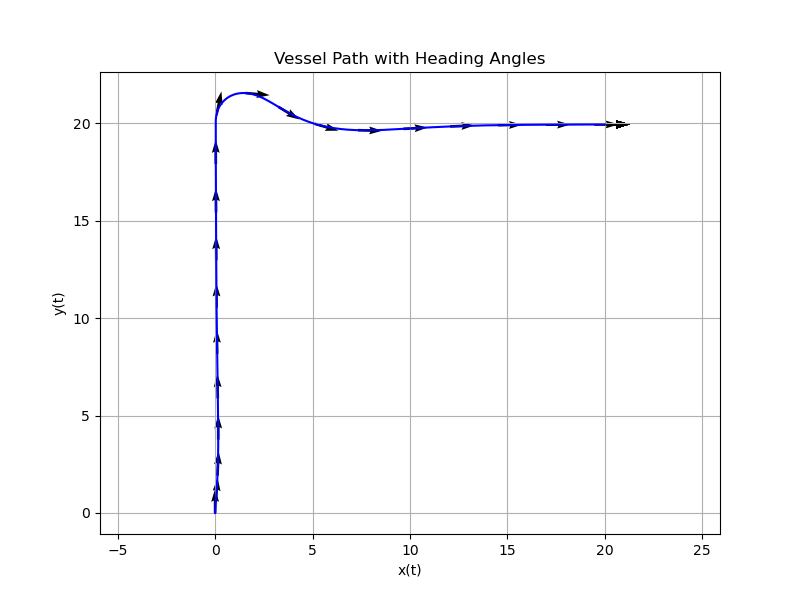
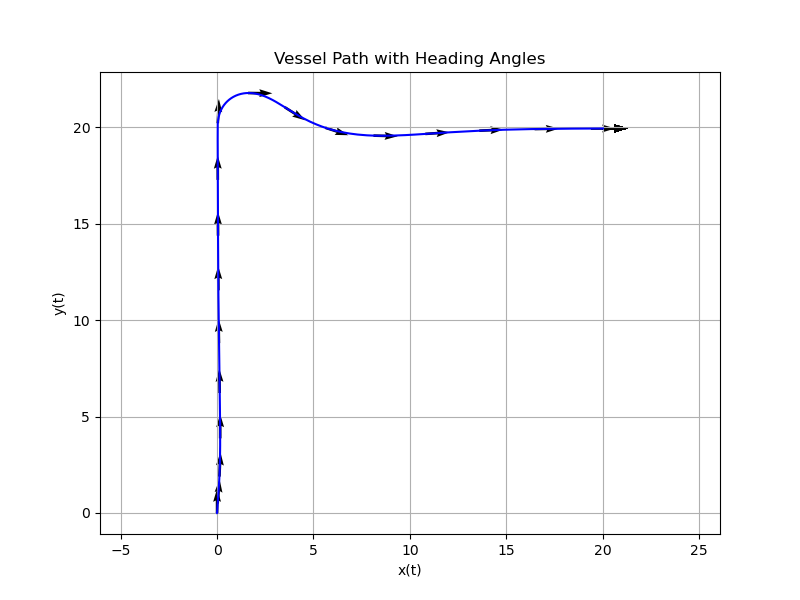
LOS observer initialization fix, removing the wierd start. New plot functions for n and alpha values added. Saved plots are not updated.

diff --git a/src/Utilities/plotting.cpp b/src/Utilities/plotting.cpp
@@ -186,7 +186,7 @@ void plotStateErrors() {
             time.push_back(t);
             error_x.push_back(xn_d - xn);
             error_y.push_back(yn_d - yn);
-            error_psi.push_back(ssa(psi_d - psi));
+            error_psi.push_back(psi_d - psi);
         }
         
     }
@@ -261,6 +261,108 @@ void plotAngles() {
     plt::grid(true);
     plt::show();
 }      
+
+void plotPropellerSpeeds() {
+    std::filesystem::path filepath = std::filesystem::path(getRepositoryPath()) / "data" / "simdata.csv";
+    if (!std::filesystem::exists(filepath)) {
+        std::cerr << "File does not exist: " << filepath << std::endl;
+        return;
+    }
+    std::ifstream file(filepath);
+    if (!file.is_open()) {
+        std::cerr << "Error: Unable to open " << filepath << std::endl;
+        return;
+    }
+
+    std::vector<double> time, n1, n2, nc1, nc2;
+    std::string line;
+    while (std::getline(file, line)) {
+        std::stringstream ss(line);
+        std::vector<double> vals;
+        std::string cell;
+        while (std::getline(ss, cell, ',')) {
+            try { vals.push_back(std::stod(cell)); }
+            catch (const std::invalid_argument&) { /* skip non-numeric */ }
+        }
+        if (vals.size() >= 20) {
+            time.push_back(vals[0]);
+            nc1 .push_back(vals[16]);  // n_c(0)
+            nc2 .push_back(vals[17]);  // n_c(1)
+            n1  .push_back(vals[18]);  // n(0)
+            n2  .push_back(vals[19]);  // n(1)
+        }
+    }
+    file.close();
+
+    if (time.empty()) {
+        std::cerr << "Error: No valid data found in " << filepath << std::endl;
+        return;
+    }
+
+    plt::figure_size(2481, 1240);
+    plt::named_plot("n1 commanded", time, nc1, "C0-");
+    plt::named_plot("n2 commanded", time, nc2, "C2-");
+    plt::named_plot("n1 actual",    time, n1,  "C1--");
+    plt::named_plot("n2 actual",    time, n2,  "C3--");
+    plt::xlabel("Time (s)");
+    plt::ylabel("Propeller speed n");
+    plt::title("Actual vs. Commanded Propeller Speeds");
+    plt::ylim(-1.0, 1.0);
+    plt::legend();
+    plt::grid(true);
+    plt::show();
+}
+
+void plotAlphas() {
+    std::filesystem::path filepath = std::filesystem::path(getRepositoryPath()) / "data" / "simdata.csv";
+    if (!std::filesystem::exists(filepath)) {
+        std::cerr << "File does not exist: " << filepath << std::endl;
+        return;
+    }
+    std::ifstream file(filepath);
+    if (!file.is_open()) {
+        std::cerr << "Error: Unable to open " << filepath << std::endl;
+        return;
+    }
+
+    std::vector<double> time, a1, a2, ac1, ac2;
+    std::string line;
+    while (std::getline(file, line)) {
+        std::stringstream ss(line);
+        std::vector<double> vals;
+        std::string cell;
+        while (std::getline(ss, cell, ',')) {
+            try { vals.push_back(std::stod(cell)); }
+            catch (const std::invalid_argument&) { /* skip non-numeric */ }
+        }
+        if (vals.size() >= 24) {
+            time.push_back(vals[0]);
+            ac1.push_back(rad2deg(vals[20]));  // alpha_c(0) → degrees
+            ac2.push_back(rad2deg(vals[21]));  // alpha_c(1)
+            a1 .push_back(rad2deg(vals[22]));  // alpha(0)
+            a2 .push_back(rad2deg(vals[23]));  // alpha(1)
+        }
+    }
+    file.close();
+
+    if (time.empty()) {
+        std::cerr << "Error: No valid data found in " << filepath << std::endl;
+        return;
+    }
+
+    plt::figure_size(2481, 1240);
+    plt::named_plot("alpha1 commanded", time, ac1, "C0-");
+    plt::named_plot("alpha2 commanded", time, ac2, "C2-");
+    plt::named_plot("alpha1 actual",    time, a1,  "C1--");
+    plt::named_plot("alpha2 actual",    time, a2,  "C3--");
+    plt::xlabel("Time (s)");
+    plt::ylabel("alpha (deg)");
+    plt::title("Actual vs. Commanded alpha Angles");
+    plt::ylim(-90.0, 90.0);
+    plt::legend();
+    plt::grid(true);
+    plt::show();
+}
 
 void plot_points(const std::vector<Vector2D>& vessels, const std::vector<Vector2D>& projections) {
     std::vector<double> vessel_x, vessel_y;

diff --git a/src/Models/ran.cpp b/src/Models/ran.cpp
@@ -79,13 +79,17 @@ void RAN::update(const Eigen::VectorXd x, double mp, double V_c, double beta_c,
     // - Assuming CO = (0, 0, 0) means center of the boat.
     //----------------------------
     // - Coordinate origin (CO) offset update (Speed dependant)
-    Eigen::Vector3d CO_offset = CO_Offset(U);
-    // - CO to center of gravity for hull only.
-    Eigen::Vector3d rg_hull = Eigen::Vector3d( -0.5, 0.0, -0.2) - CO_offset;
-    // - CO to payload location (front cabin).
-    Eigen::Vector3d rp      = Eigen::Vector3d( 0.75, 0.0, -0.2) - CO_offset;
-    // - CO to longditudinal center of flotation (LCF).
-    Eigen::Vector3d LCF_vec = Eigen::Vector3d( -0.2, 0.0,  0.0) - CO_offset;
+    // Eigen::Vector3d CO_offset = CO_Offset(U);
+    // // - CO to center of gravity for hull only.
+    // Eigen::Vector3d rg_hull = Eigen::Vector3d( -0.5, 0.0, -0.2) - CO_offset;
+    // // - CO to payload location (front cabin).
+    // Eigen::Vector3d rp      = Eigen::Vector3d( 0.75, 0.0, -0.2) - CO_offset;
+    // // - CO to longditudinal center of flotation (LCF).
+    // Eigen::Vector3d LCF_vec = Eigen::Vector3d( -0.2, 0.0,  0.0) - CO_offset;
+
+    Eigen::Vector3d rg_hull = Eigen::Vector3d( -0.5, 0.0, -0.2);
+    Eigen::Vector3d rp      = Eigen::Vector3d( 0.75, 0.0, -0.2);
+    Eigen::Vector3d LCF_vec = Eigen::Vector3d( -0.2, 0.0,  0.0);
     
     // ---------------------------
     // Ocean current and relative velocity
@@ -135,11 +139,15 @@ void RAN::update(const Eigen::VectorXd x, double mp, double V_c, double beta_c,
     // Azimuth pods / Pontoon data and control forces
     // ---------------------------
     // left pod lever arm (m)
-    double ly1 = y_pont - CO_offset(1);         
-    // right pod lever arm (m)
-    double ly2 = -y_pont + CO_offset(1);        
-    // forward displacement of pods (m)
-    double lx  = -1.1 + CO_offset(0);   
+    // double ly1 = y_pont - CO_offset(1);         
+    // // right pod lever arm (m)
+    // double ly2 = -y_pont + CO_offset(1);        
+    // // forward displacement of pods (m)
+    // double lx  = -1.1 + CO_offset(0); 
+      
+    double ly1 = y_pont;         
+    double ly2 = -y_pont;        
+    double lx  = -1.1;
 
     // ---------------------------
     // Rigid-body (MRB) and Coriolis (CRB) matrices at the CG

diff --git a/src/Control/MPC_control_system.cpp b/src/Control/MPC_control_system.cpp
@@ -131,10 +131,13 @@ Function MPC_Control_System::oneStepDynamicsFunction() {
 bool MPC_Control_System::solve(const std::vector<double>& x0, double x_s, double y_s, double x_d, double y_d, double psi_d, Eigen::VectorXd n_init, Eigen::VectorXd alpha_init, std::vector<bool> failstate) {
     
     double U = std::sqrt(x0[3]*x0[3] + x0[4]*x0[4]); // Current speed from state x0
-    Eigen::Vector3d CO_offset = CO_Offset(U); 
-    double ly1 =  1.1 - CO_offset(0);    // left pod lever arm
-    double ly2 = -1.1 + CO_offset(1);    // right pod lever arm
-    double lx  = -1.1 - CO_offset(2);    // longitudinal pod location
+    //Eigen::Vector3d CO_offset = CO_Offset(U); 
+    // double ly1 =  1.1 - CO_offset(0);    // left pod lever arm
+    // double ly2 = -1.1 + CO_offset(1);    // right pod lever arm
+    // double lx  = -1.1 - CO_offset(2);    // longitudinal pod location
+    double ly1 =  1.1;    // left pod lever arm
+    double ly2 = -1.1;    // right pod lever arm
+    double lx  = -1.1;    // longitudinal pod location
     
     // Constants from the RAN model parameters
     double k_pos = 200;

diff --git a/src/Planning/fermat_spiral_planning.cpp b/src/Planning/fermat_spiral_planning.cpp
@@ -50,10 +50,13 @@ FermatSpiralPath::FSParameters FermatSpiralPath::computeFSParameters(const Vecto
     params.u_max = std::sqrt(params.theta_end);
 
     if (std::isnan(params.chi0) || std::isnan(params.x0) || std::isnan(params.y0) ||
-    std::isnan(params.chi_end) || std::isnan(params.x_end) || std::isnan(params.y_end) ||
-    std::isnan(params.k) || std::isnan(params.rho)) {
-    std::cerr << "Error: Invalid FSParameters detected!" << std::endl;
-    std::abort();
+        std::isnan(params.chi_end) || std::isnan(params.x_end) || std::isnan(params.y_end) ||
+        std::isnan(params.k) || std::isnan(params.rho)) {
+        std::cerr << "Error: Invalid FSParameters detected!" << std::endl;
+        std::cerr << "chi0: " << params.chi0 << ", x0: " << params.x0 << ", y0: " << params.y0 << std::endl;
+        std::cerr << "chi_end: " << params.chi_end << ", x_end: " << params.x_end << ", y_end: " << params.y_end << std::endl;
+        std::cerr << "k: " << params.k << ", rho: " << params.rho << std::endl;
+        std::abort();
     }
 
     return params;

diff --git a/src/Control/MPC_control_alloc.cpp b/src/Control/MPC_control_alloc.cpp
@@ -14,10 +14,13 @@ std::vector<double> MPC_control_alloc(double tau_X, double tau_Y, double tau_N,
     double delta   = 0.5;
     int N = static_cast<int>(horizon/delta); 
 
-    Eigen::Vector3d CO_offset = CO_Offset(U);
-    double ly1 =  1.1 - CO_offset(1);    // Left pod lever arm
-    double ly2 = -1.1 + CO_offset(1);    // Right pod lever arm
-    double lx  = -1.1 - CO_offset(0);    // Pod locations in x
+    //Eigen::Vector3d CO_offset = CO_Offset(U);
+    //double ly1 =  1.1 - CO_offset(1);    // Left pod lever arm
+    //double ly2 = -1.1 + CO_offset(1);    // Right pod lever arm
+    //double lx  = -1.1 - CO_offset(0);    // Pod locations in x
+    double ly1 =  1.1;    // Left pod lever arm
+    double ly2 = -1.1;    // Right pod lever arm
+    double lx  = -1.1;    // Pod locations in x
 
     // Constants from ran()
     double g = 9.81;

diff --git a/src/main.cpp b/src/main.cpp
@@ -136,7 +136,7 @@ int main() {
 
     // Initialize guidance methods and LOS observer 
     ALOS ALOS(Delta_h, gamma_h, 0.1);
-    LOSObserver losObserver(h, K_f);
+    LOSObserver losObserver(h, K_f, x(11));
 
     // Choose path type
     int pathType = selectPathType();
@@ -163,9 +163,9 @@ int main() {
     int ControlAllocFlag = controlAlloc.selectMethod();
 
     // Initial desired states
-    double xn_d  = 0.0;        
-    double yn_d  = 0.0;        
-    double psi_d = 0.0; 
+    double xn_d  = x(6);        
+    double yn_d  = x(7);        
+    double psi_d = x(11); 
     double U_d   = 0.0;
 
     // ALOS variables
@@ -494,6 +494,8 @@ int main() {
     plotClosestPointErrors();
     plotStateErrors();
     plotAngles();
+    plotPropellerSpeeds();
+    plotAlphas();
 
     return 0;
 }

diff --git a/src/Control/non_lin_constrained_control_alloc.cpp b/src/Control/non_lin_constrained_control_alloc.cpp
@@ -15,10 +15,13 @@ using namespace casadi;
 std::vector<double> NLOptControlAlloc(double tau_X, double tau_Y, double tau_N, double U, Eigen::Vector2d n, Eigen::Vector2d alpha, std::vector<bool> failstate) {
 
     // Lever arms from ran()
-    Eigen::Vector3d CO_offset = CO_Offset(U);
-    double ly1 =  1.1 - CO_offset(1);    
-    double ly2 = -1.1 + CO_offset(1);    
-    double lx  = -1.1 - CO_offset(0);    
+    // Eigen::Vector3d CO_offset = CO_Offset(U);
+    // double ly1 =  1.1 - CO_offset(1);    
+    // double ly2 = -1.1 + CO_offset(1);    
+    // double lx  = -1.1 - CO_offset(0);   
+    double ly1 =  1.1;    
+    double ly2 = -1.1;    
+    double lx  = -1.1;  
 
     // Constants from ran()
     double g = 9.81;

diff --git a/src/Guidance/LOS_observer.cpp b/src/Guidance/LOS_observer.cpp
@@ -2,8 +2,8 @@
 #include "Utilities/calculations.hpp"
 #include <cmath>
 
-LOSObserver::LOSObserver(double h, double K_f)
-    : h(h), K_f(K_f), LOSangle(0.0), LOSrate(0.0) {
+LOSObserver::LOSObserver(double h, double K_f, double LOSAngle)
+    : h(h), K_f(K_f), LOSangle(LOSAngle), LOSrate(0.0) {
     T_f = 1.0 / (K_f + 2 * std::sqrt(K_f) + 1);
 }
 

diff --git a/include/Guidance/LOS_observer.hpp b/include/Guidance/LOS_observer.hpp
@@ -4,7 +4,7 @@
 class LOSObserver {
     public:
         // Constructor
-        LOSObserver(double h, double K_f);
+        LOSObserver(double h, double K_f, double LOSAngle);
     
         // Update function for the LOS observer
         void update(double LOScommand);

diff --git a/include/Utilities/plotting.hpp b/include/Utilities/plotting.hpp
@@ -17,6 +17,10 @@ void plotStateErrors();
 
 void plotAngles();
 
+void plotPropellerSpeeds();
+
+void plotAlphas();
+
 void plot_points(const std::vector<Vector2D>& vessels, const std::vector<Vector2D>& projections);
 
 void plotClosestPointErrors();
